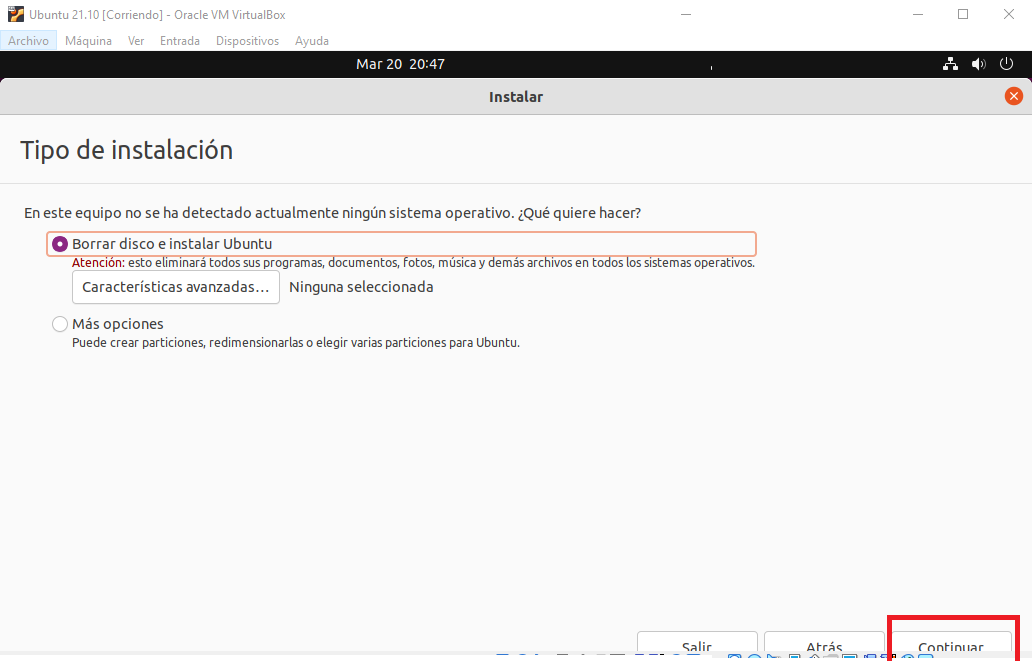
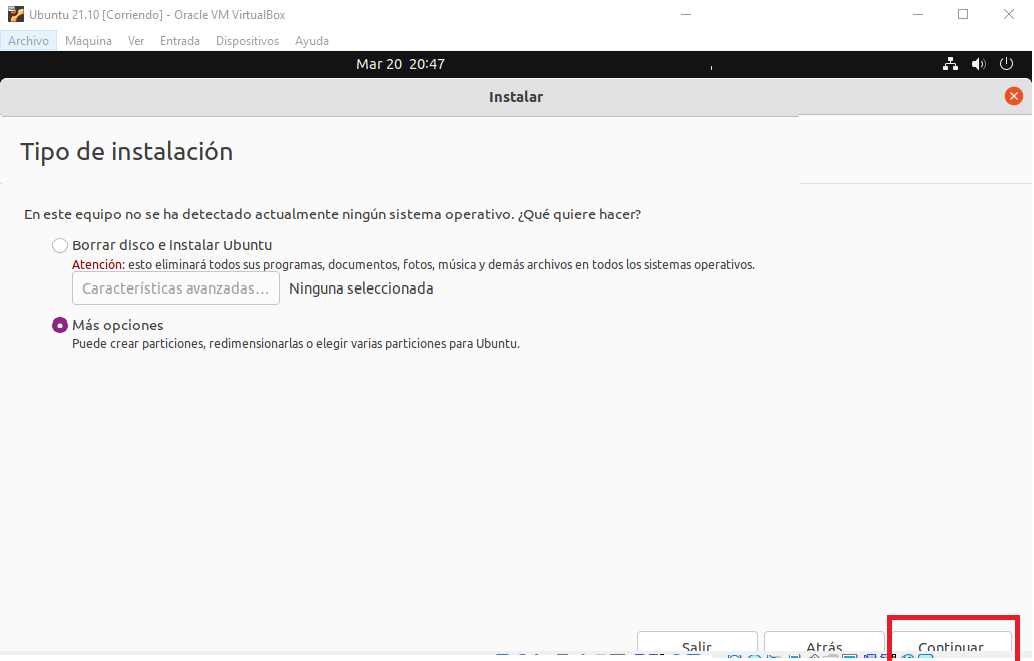
JP-10

Changed region(s): [[0.0309, 0.3026, 0.7427, 0.5446], [0.0, 0.1513, 0.7737, 0.1815], [0.0309, 0.2118, 0.2166, 0.2421]]

diff --git a/3-Ubuntu 21.10/README.md b/3-Ubuntu 21.10/README.md
@@ -59,7 +59,9 @@ en nuestro caso trabajaremos con la instalación normal y le daremos en continua
 
 <cite style="display:block; text-align: justify">Configuraciones relacionadas con el disco, particionamiento y sistema de archivos.
 
-Lo dejaremos como esta ya que no tenemos nada en nuestros discos duros asi que no hay de que preocuparnos y le daremos en continuuar.</cite>
+Le quitaremos la opcion Borrar disco por que no tenemos nada instalado, y le daremos en mas opciones ya que en esta parte podremos configurar y crear las particiones.
+
+Le damos en continuar </cite>
 
 ![Intslacion](img_Ubuntu/img8.png)
 
